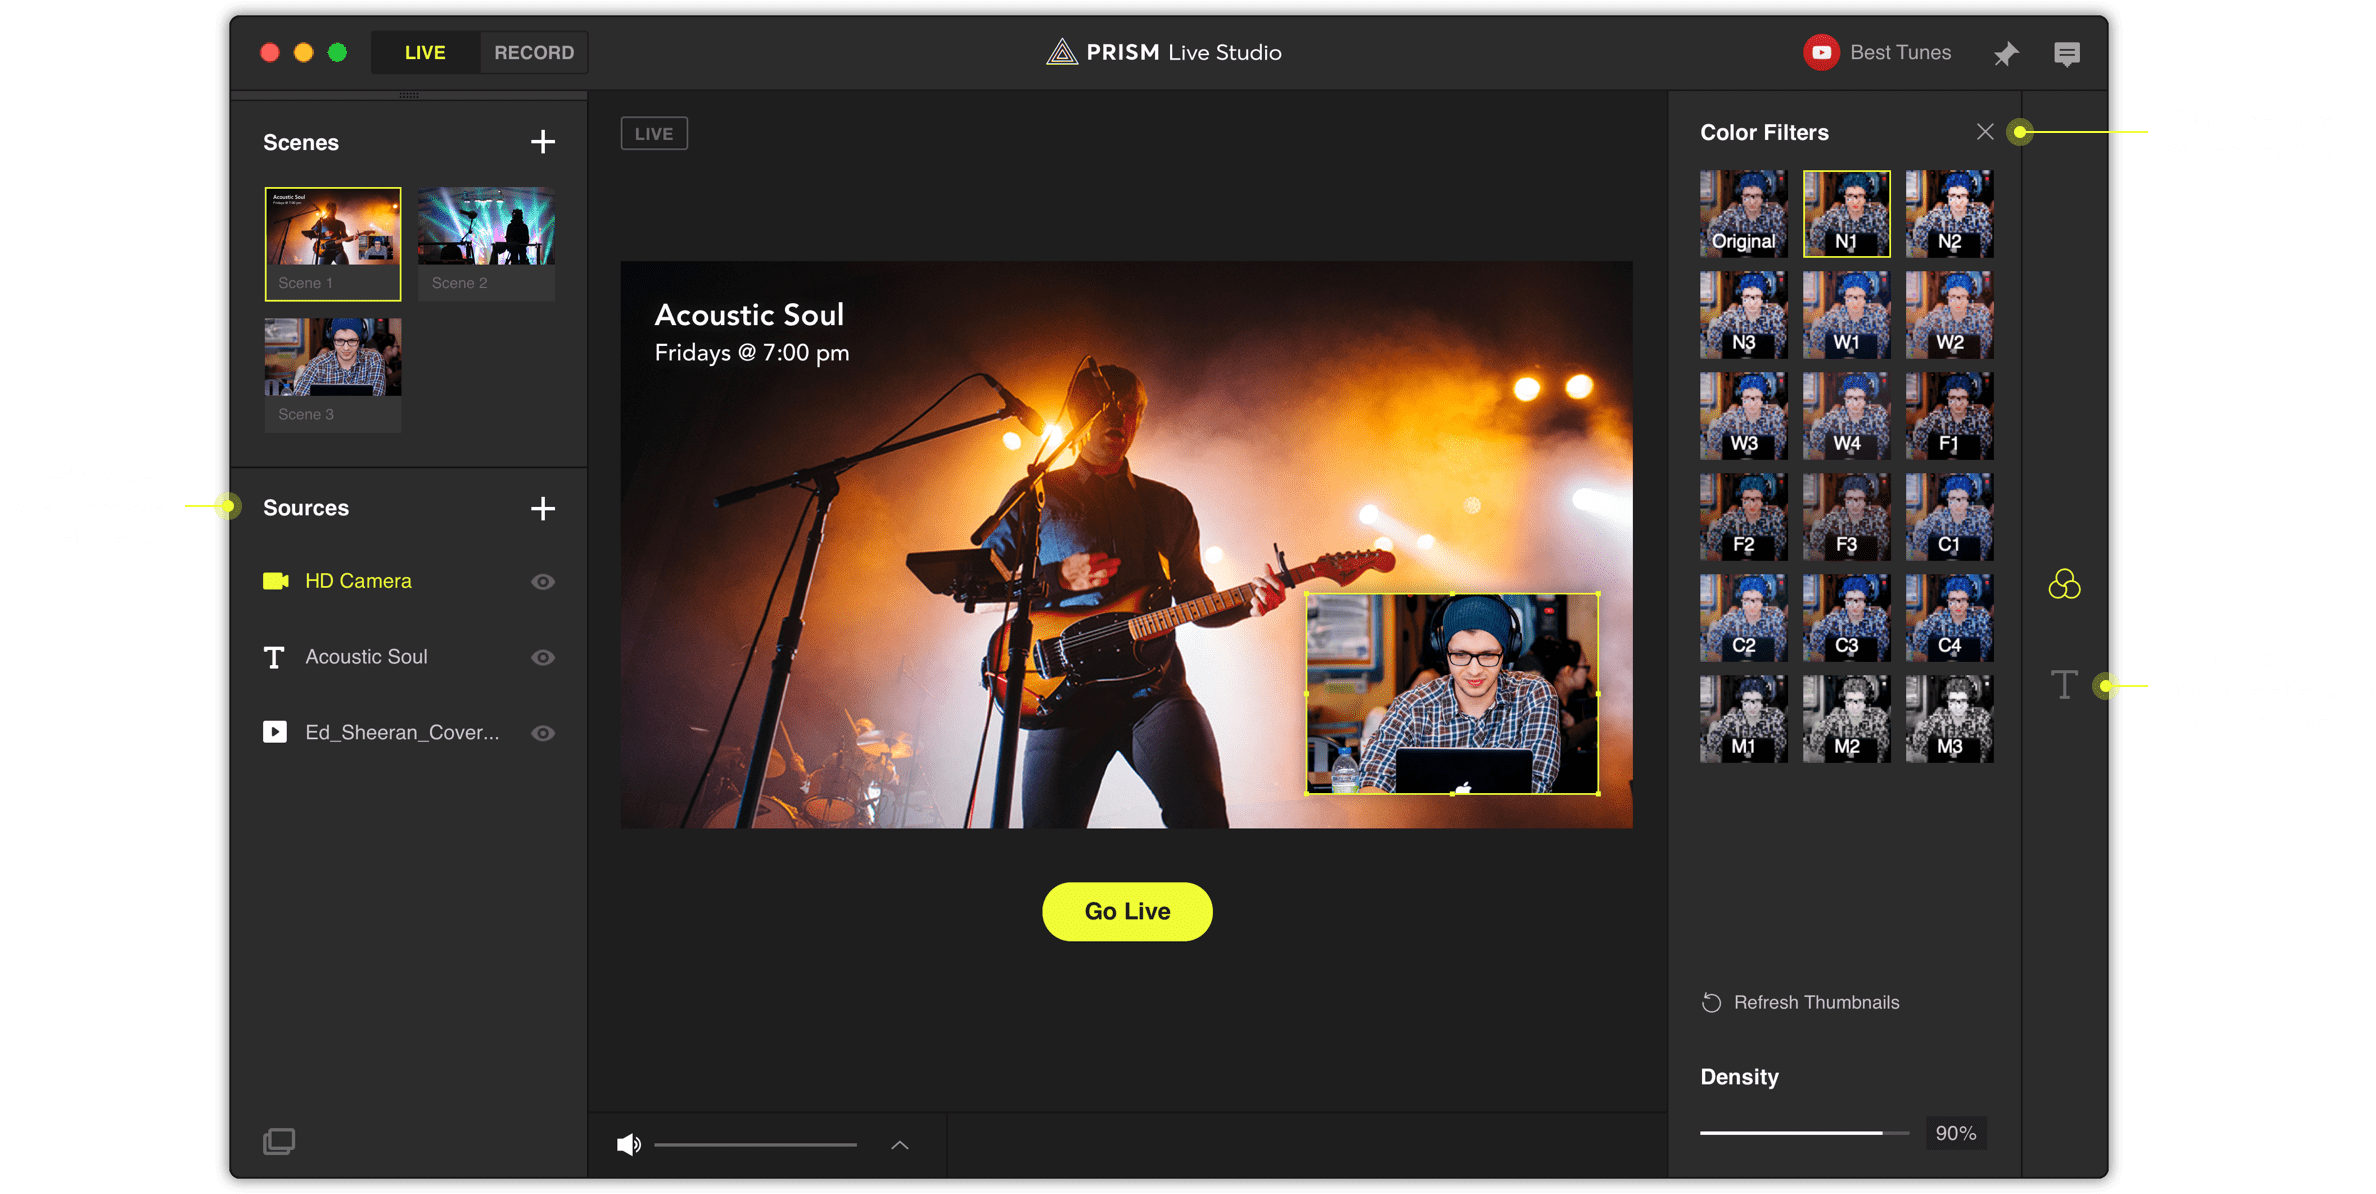
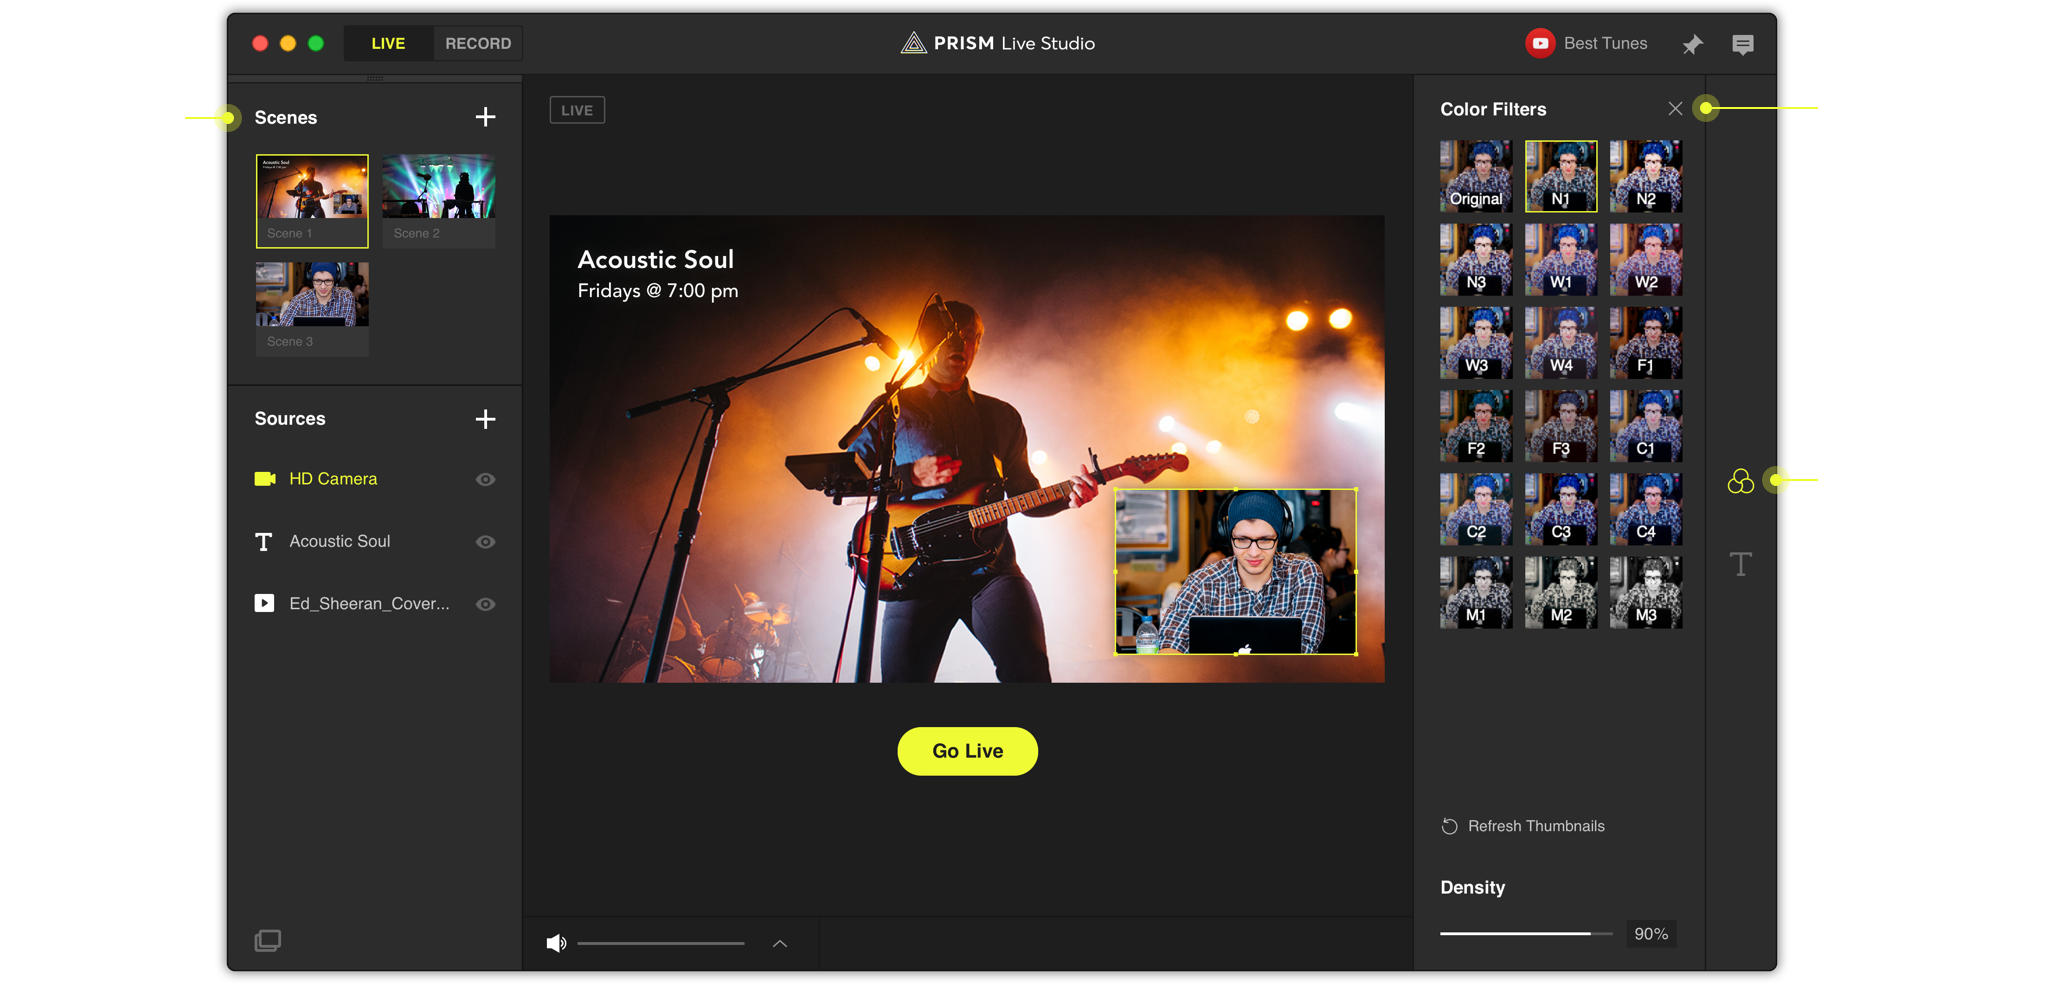
Changed To-Be image for PRISM Layout project

diff --git a/src/App.css b/src/App.css
@@ -1184,11 +1184,11 @@
 }
 
 .prismlayout .tobe {
-  width: 1189px;
-  height: 597px;
+  width: 1024px;
+  height: 492px;
   position: relative;
   left: 50%;
-  margin-left: -595px;
+  margin-left: -512px;
   padding: 40px 21px 80px 0px;
 }
 
